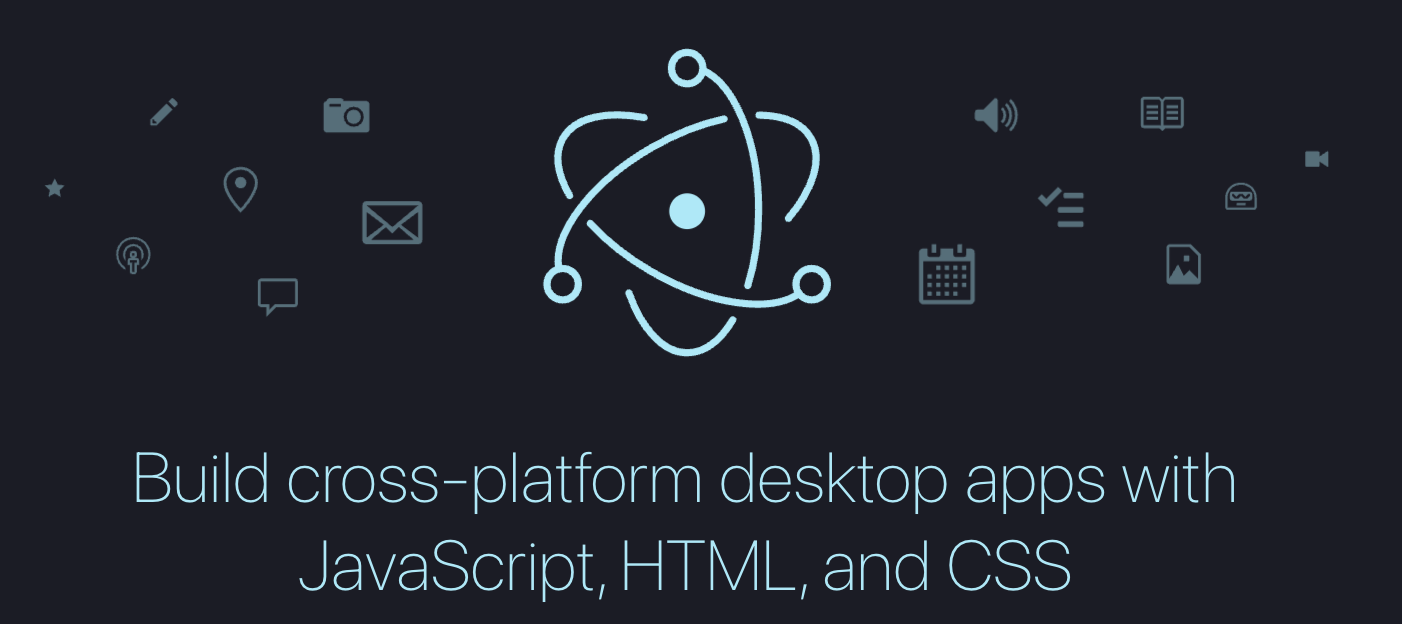
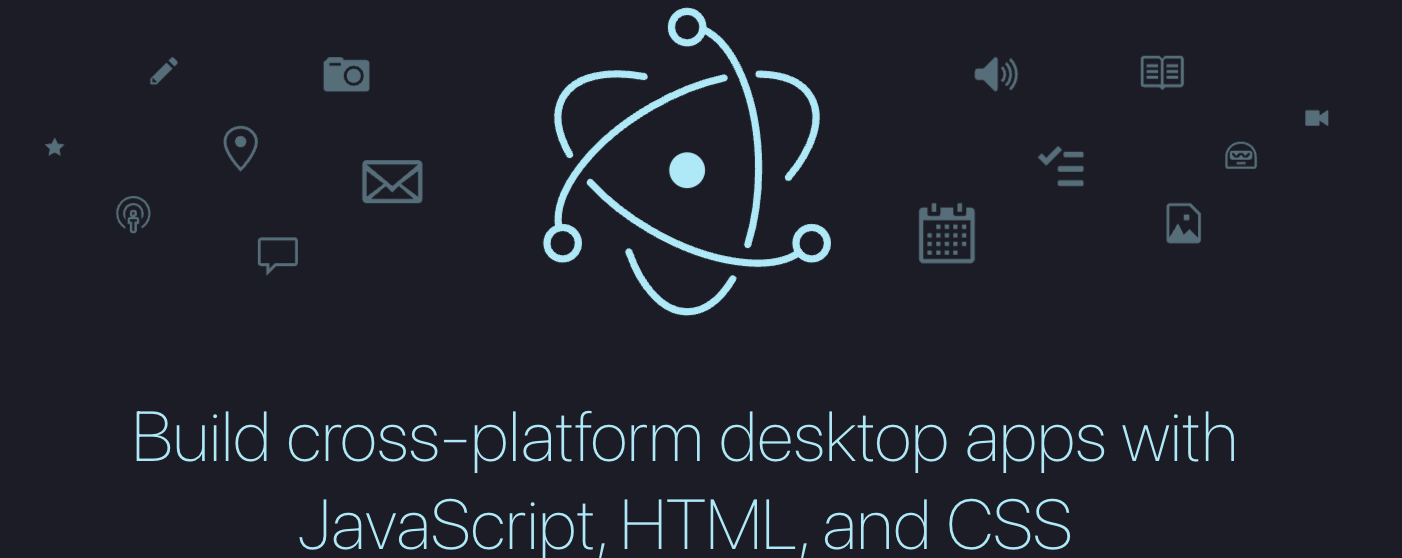
resize images.

diff --git a/regex.md b/regex.md
@@ -301,8 +301,7 @@ _a_a_a_
 ## なぜ $1 なのか？ \1 は？
 
 * VSCode は [Electron](https://www.electronjs.org/) という JavaScript Framework で作られています
-* 従って、VSCode の正規表現の仕様は [JavaScript 標準](https://developer.mozilla.org/ja/docs/Web/JavaScript/Reference/Global_Objects/String/replace#%E7%BD%AE%E6%8F%9B%E6%96%87%E5%AD%97%E5%88%97%E3%81%A8%E3%81%97%E3%81%A6%E3%81%AE%E6%96%87%E5%AD%97%E5%88%97%E3%81%AE%E6%8C%87%E5%AE%9A) に従います
-
+* → VSCode の正規表現の仕様は [JavaScript 標準](https://developer.mozilla.org/ja/docs/Web/JavaScript/Reference/Global_Objects/String/replace#%E7%BD%AE%E6%8F%9B%E6%96%87%E5%AD%97%E5%88%97%E3%81%A8%E3%81%97%E3%81%A6%E3%81%AE%E6%96%87%E5%AD%97%E5%88%97%E3%81%AE%E6%8C%87%E5%AE%9A)
 ![Alt text](image-26.png)
 
 ---
